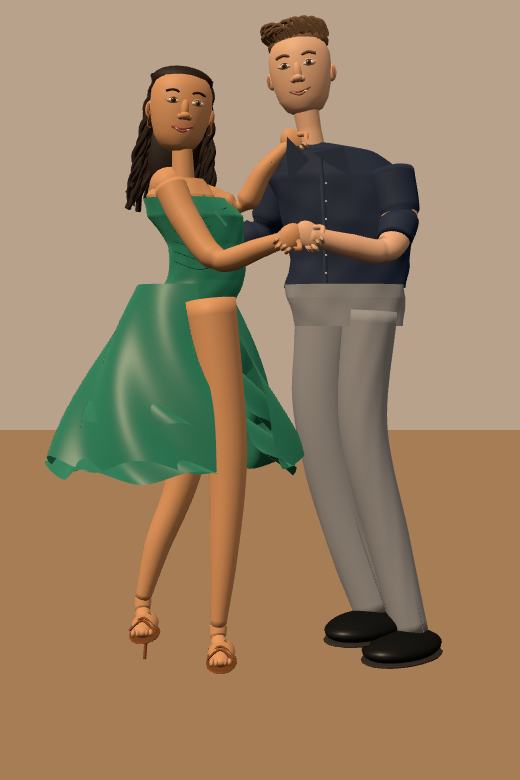
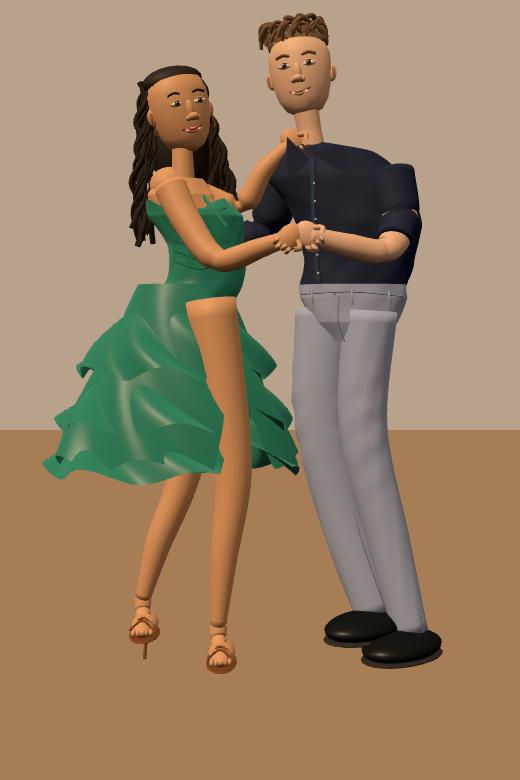
feat: crop paired reference framing and refine hair, dress and garment details

diff --git a/experiments/salsa-human-models/model.js b/experiments/salsa-human-models/model.js
@@ -1,6 +1,6 @@
 import * as THREE from '../../vendor/three.module.js';
 import {referenceCamera} from './camera.js';
-export const palette={dress:0x00624e,shirt:0x18253e,trousers:0x85858a};
+export const palette={dress:0x00624e,shirt:0x0e172f,trousers:0x9397af};
 const camera=new THREE.PerspectiveCamera(referenceCamera.fov,referenceCamera.aspect,referenceCamera.near,referenceCamera.far);
 camera.position.set(...referenceCamera.position);camera.lookAt(...referenceCamera.target);camera.updateMatrixWorld();
 // Measured reference landmarks set geometry placement, never camera or image pixels.
@@ -18,19 +18,19 @@ export function createCouple(){
  function sweep(name,knots,m,depth=1,sides=28){
   const path=new THREE.CatmullRomCurve3(knots.map(k=>vec(k[0]))),rows=(knots.length-1)*10,frames=path.computeFrenetFrames((knots.length-1)*10,false),vertices=[],indices=[];
   for(let j=0;j<=rows;j++){const t=j/rows,c=path.getPoint(t);const u=t*(knots.length-1),i=Math.min(knots.length-2,Math.floor(u)),f=u-i,requestedRadius=THREE.MathUtils.lerp(knots[i][1],knots[i+1][1],f),before=Math.max(0,t-1/rows),after=Math.min(1,t+1/rows),turn=path.getTangent(before).angleTo(path.getTangent(after)),bendLimit=turn>1e-5?.5*path.getPoint(before).distanceTo(path.getPoint(after))/turn:Infinity,r=Math.min(requestedRadius,bendLimit);
-   for(let k=0;k<=sides;k++){const a=k/sides*Math.PI*2,fold=name.includes('trouser')?1+.018*Math.cos(a*8+t*22):1;const v=frames.normals[j].clone().multiplyScalar(Math.cos(a)*r*fold).addScaledVector(frames.binormals[j],-Math.sin(a)*r*depth).add(c);vertices.push(v.x,v.y,v.z);}}
+   for(let k=0;k<=sides;k++){const a=k/sides*Math.PI*2,fold=name.includes('trouser')?1+.018*Math.cos(a*8+t*22)+.055*Math.exp(-(((t-.36)/.16)**2))*Math.cos(a*2+t*65):1;const v=frames.normals[j].clone().multiplyScalar(Math.cos(a)*r*fold).addScaledVector(frames.binormals[j],-Math.sin(a)*r*depth).add(c);vertices.push(v.x,v.y,v.z);}}
   for(let j=0;j<rows;j++)for(let k=0;k<sides;k++){const i=j*(sides+1)+k;indices.push(i,i+sides+1,i+1,i+1,i+sides+1,i+sides+2);}
   // End caps are fans, not separate spheres with coplanar joint seams.
   for(const j of [0,rows]){const c=path.getPoint(j/rows),center=vertices.length/3;vertices.push(c.x,c.y,c.z);for(let k=0;k<sides;k++){const i=j*(sides+1)+k;if(j===0)indices.push(center,i,i+1);else indices.push(center,i+1,i);}}
   const g=new THREE.BufferGeometry();g.setAttribute('position',new THREE.Float32BufferAttribute(vertices,3));g.setIndex(indices);g.computeVertexNormals();const o=mesh(name,g,m);o.userData={surface:'sweep',rows,sides};return o;
  }
  function torso(name,anchors,m){const v=[],ix=[],sides=48,rings=[];const path=new THREE.CatmullRomCurve3(anchors.map(r=>r[0]));for(let j=0;j<=60;j++){const u=j/60*(anchors.length-1),i=Math.min(anchors.length-2,Math.floor(u)),f=u-i;rings.push([path.getPoint(j/60),THREE.MathUtils.lerp(anchors[i][1],anchors[i+1][1],f),THREE.MathUtils.lerp(anchors[i][2],anchors[i+1][2],f)]);}
-  for(const [c,rx,rz] of rings)for(let i=0;i<=sides;i++){const a=i/sides*Math.PI*2;const fold=1+.012*Math.sin(a*9+c.y*38)+.009*Math.sin(a*5-c.y*51);v.push(c.x+Math.cos(a)*rx*fold,c.y,c.z+Math.sin(a)*rz*fold);}
+  for(const [row,[c,rx,rz]] of rings.entries())for(let i=0;i<=sides;i++){const a=i/sides*Math.PI*2;const fold=1+.012*Math.sin(a*9+c.y*38)+.009*Math.sin(a*5-c.y*51);const neckline=name==='Emerald fitted bodice'?.07*Math.max(0,Math.sin(a))**4*(row/60)**12:0;v.push(c.x+Math.cos(a)*rx*fold,c.y-neckline,c.z+Math.sin(a)*rz*fold);}
   for(let j=0;j<rings.length-1;j++)for(let i=0;i<sides;i++){const k=j*(sides+1)+i;ix.push(k,k+sides+1,k+1,k+1,k+sides+1,k+sides+2);}
   const g=new THREE.BufferGeometry();g.setAttribute('position',new THREE.Float32BufferAttribute(v,3));g.setIndex(ix);g.computeVertexNormals();const material=m.clone();material.side=THREE.DoubleSide;return mesh(name,g,material);
  }
  function head(name,p,skin,hairMaterial,female){
-  const g=new THREE.Group();g.name=name+' head';g.position.copy(p);g.rotation.set(0,female?.24:-.18,female?-.10:.12);root.add(g);
+  const g=new THREE.Group();g.name=name+' head';g.position.copy(p);g.rotation.set(0,female?.42:-.18,female?.22:.12);root.add(g);
   const rings=[[-.135,.025,.038],[-.117,.058,.060],[-.085,.079,.073],[-.04,.092,.083],[.01,.101,.086],[.06,.100,.084],[.105,.085,.071],[.13,.04,.04]];
   const v=[],ix=[],sides=56;
   for(const [y,rx,rz] of rings)for(let i=0;i<=sides;i++){const a=i/sides*Math.PI*2,cheek=1+.035*Math.cos(a*2);v.push(Math.cos(a)*rx*cheek,y,Math.sin(a)*rz);}
@@ -46,34 +46,34 @@ export function createCouple(){
   const lip=mat(female?0x9d4640:0xa06a59,.5);
   curve(name+' smile upper',[[-.035,-.064,.070],[0,-.07,.085],[.035,-.057,.069]],.004,lip,g);
   curve(name+' smile lower',[[-.032,-.066,.071],[0,-.079,.082],[.032,-.059,.07]],.004,lip,g);
-  oval(name+' visible teeth',[0,-.071,.080],[.025,.005,.003],mat(0xe7d8c2,.4),g);
+  oval(name+' visible teeth',[0,-.071,.080],[.029,.007,.003],mat(0xeadbc5,.4),g);
   oval(name+' scalp',[0,.104,-.017],[.103,.048,.081],hairMaterial,g);
   if(female)oval(name+' back hair volume',[0,-.10,-.07],[.107,.19,.067],hairMaterial,g);
   const count=female?70:60;
   for(let i=0;i<count;i++){const a=i*2.39996,seed=(Math.sin(i*7.13)+1)/2;
-   if(female){const side=Math.cos(a),back=Math.sin(a);if(back>.55&&Math.abs(side)<.75)continue;const points=[];for(let j=0;j<8;j++){const t=j/7;points.push([side*(.085+t*.055)+Math.sin(t*15+i)*.013,.12-t*(.38+seed*.08),-.025-Math.abs(back)*.045+Math.sin(t*13+i)*.018]);}curve(name+' wavy hair lock '+i,points,i%3===0?.010:.006,hairMaterial,g);}
-   else{const x=Math.cos(a)*.087,z=Math.sin(a)*.062;curve(name+' curled quiff '+i,[[x,.105,z-.02],[x-.025,.13+seed*.033,z+.009],[x+.004,.139+seed*.025,z+.026],[x+.017,.11+seed*.013,z+.017]],.007,maleHair,g);}}
+   if(female){const side=Math.cos(a),back=Math.sin(a);if(back>.55&&Math.abs(side)<.75)continue;const points=[];for(let j=0;j<8;j++){const t=j/7;points.push([side*(.085+t*(side<0?.15:.06))+Math.sin(t*15+i)*.019,.12-t*(.43+seed*.10),-.025-Math.abs(back)*.045+Math.sin(t*13+i)*.018]);}curve(name+' wavy hair lock '+i,points,i%3===0?.010:.006,hairMaterial,g);}
+   else{const x=Math.cos(a)*.087,z=Math.sin(a)*.062,points=[];for(let j=0;j<=8;j++){const t=j/8,angle=t*Math.PI*2*(.8+seed*.4)+i*.21;points.push([x-.025*t+.012*Math.cos(angle),.10+.055*Math.sin(Math.PI*t)+seed*.025,z-.02+.018*Math.sin(angle)+.02*t]);}curve(name+' tousled curl '+i,points,.005+seed*.004,i%5===0?mat(0x795435,.6):maleHair,g);}}
  }
  const wh=point(.347,.143),mh=point(.579,.096);head('Woman',wh,ws,hair,true);head('Man',mh,ms,maleHair,false);
  sweep('Woman neck',[[point(.353,.239),.044],[point(.350,.190),.038],[point(.347,.165),.043]],ws,.9);
  sweep('Man neck',[[point(.607,.218),.053],[point(.595,.167),.044],[point(.586,.133),.049]],ms,.9);
- torso('Fitted navy shirt',[[point(.665,.369,-.015),.205,.095],[point(.672,.334,-.02),.20,.103],[point(.669,.287,-.02),.22,.115],[point(.650,.23,-.02),.235,.11],[point(.621,.195,-.02),.17,.085],[point(.605,.185,-.015),.06,.05]],navy);
+ torso('Fitted navy shirt',[[point(.680,.369,-.015),.18,.095],[point(.690,.334,-.02),.185,.103],[point(.690,.287,-.02),.21,.115],[point(.650,.23,-.02),.235,.11],[point(.621,.195,-.02),.17,.085],[point(.605,.185,-.015),.06,.05]],navy);
  torso('Woman upper torso',[[point(.367,.282,-.01),.125,.08],[point(.349,.251,-.01),.12,.075],[point(.349,.230,-.01),.075,.055]],ws);
  torso('Emerald fitted bodice',[[point(.365,.39),.145,.09],[point(.395,.36),.13,.083],[point(.395,.315),.125,.09],[point(.376,.278),.16,.105],[point(.355,.255),.14,.09]],emerald);
  oval('Woman upper shoulder',point(.327,.239,-.01),[.07,.065,.06],ws);
  for(const [a,b,c] of [[point(.31,.223),point(.305,.25,.015),point(.333,.284,.09)],[point(.374,.235),point(.41,.269,.08),point(.435,.29,.095)]])curve('Dress shoulder strap',[a,b,c],.007,emerald);
  const shirtSeam=mat(0x28374c,.8);
- curve('Shirt front placket',[point(.616,.202,.10),point(.623,.28,.11),point(.626,.362,.092)],.008,shirtSeam);
- for(let i=0;i<6;i++)oval('Shirt button',point(.627,.235+i*.023,.116),[.004,.004,.002],mat(0xb9ad95));
+ curve('Shirt front placket',[point(.602,.202,.115),point(.604,.28,.12),point(.613,.362,.105)],.008,shirtSeam);
+ for(let i=0;i<6;i++)oval('Shirt button',point(.604+i*.0016,.235+i*.023,.13),[.004,.004,.002],mat(0xb9ad95));
  function patch(name,points,m){const shape=new THREE.Shape(points.map(p=>new THREE.Vector2(p[0],p[1])));const o=mesh(name,new THREE.ShapeGeometry(shape),m);return o;}
  for(const side of [-1,1]){const c=point(.605+side*.033,.196,.10);const collar=patch('Pointed shirt collar',[[-.055,.03],[.045,0],[.02,-.095],[-.028,-.025]],navy);collar.position.copy(c);collar.rotation.z=side*.5;}
  // Smooth anatomical leg profiles and contiguous trouser volumes.
  const legs=[
  ['Woman back',[[.335,.39,.00,.09],[.359,.59,.025,.07],[.300,.705,.04,.048],[.275,.767,.04,.029]],ws],
- ['Woman front',[[.405,.385,.10,.095],[.437,.585,.13,.075],[.430,.718,.15,.05],[.420,.802,.15,.029]],ws],
+ ['Woman front',[[.405,.385,.10,.095],[.447,.609,.13,.073],[.430,.718,.15,.05],[.420,.802,.15,.029]],ws],
  ['Man back trouser',[[.626,.397,-.035,.102],[.615,.526,-.015,.089],[.656,.66,-.01,.077],[.719,.786,.01,.065]],gray],
  ['Man front trouser',[[.711,.399,.025,.105],[.698,.546,.03,.093],[.746,.69,.04,.082],[.790,.811,.065,.067]],gray]];
- torso('Trouser pelvis',[[point(.672,.418),.18,.095],[point(.665,.382),.20,.097],[point(.664,.365),.20,.096]],gray);
+ torso('Trouser pelvis',[[point(.680,.438),.09,.07],[point(.680,.413),.15,.095],[point(.680,.382),.18,.097],[point(.680,.365),.18,.096]],gray);
  for(const [name,points,m] of legs){sweep(name,points.map(([x,y,z,r])=>[point(x,y,z),r]),m,.88);const last=points.at(-1),p=point(last[0],last[1],last[2]);
   if(name.startsWith('Man')){const shoe=oval(name+' leather derby',p.clone().add(new THREE.Vector3(-.035,-.030,.058)),[.11,.048,.18],black);shoe.rotation.y=-.65;const sole=oval(name+' layered sole',p.clone().add(new THREE.Vector3(-.035,-.062,.058)),[.113,.014,.183],mat(0x24201d));sole.rotation.y=-.65;
    for(let i=0;i<5;i++)curve(name+' lace '+i,[p.clone().add(new THREE.Vector3(-.035,-.005,.03+i*.015)),p.clone().add(new THREE.Vector3(.015,-.008,.04+i*.015))],.0025,mat(0x5a534b));
@@ -82,11 +82,17 @@ export function createCouple(){
    for(const dz of [-.035,.045,.085])curve(name+' sandal strap',[foot.clone().add(new THREE.Vector3(-.043,0,dz)),foot.clone().add(new THREE.Vector3(0,.035,dz+.012)),foot.clone().add(new THREE.Vector3(.043,0,dz+.024))],.004,bronze);
    for(let i=0;i<5;i++)oval(name+' toe '+i,foot.clone().add(new THREE.Vector3(-.027+i*.014,-.002,.118-i*.004)),[.008,.012,.019],ws);
   }}
+ const trouserThread=mat(0x747580,.85);
+ curve('Trouser waistband seam',[point(.579,.377,.085),point(.675,.374,.105),point(.778,.38,.08)],.002,trouserThread);
+ curve('Trouser fly seam',[point(.652,.38,.105),point(.650,.412,.105),point(.663,.438,.08)],.0018,trouserThread);
+ curve('Slanted trouser pocket',[point(.753,.383,.08),point(.744,.410,.09),point(.721,.428,.10)],.002,trouserThread);
+ for(const x of [.60,.677,.748])curve('Trouser belt loop',[point(x,.372,.112),point(x,.382,.115),point(x,.391,.11)],.004,gray);
+ oval('Waist fastener',point(.644,.377,.116),[.004,.004,.002],trouserThread);
  // Overlapping ruffle panels are real double-sided surfaces around the body.
  function skirt(name,top,bottom,spread,phase){const vertices=[],indices=[],rows=24,cols=96;
-  for(let j=0;j<=rows;j++)for(let i=0;i<=cols;i++){const t=j/rows,a=1.20+i/cols*(Math.PI*2-.70),wave=Math.sin(a*7+t*8+phase),r=.15+t*spread+wave*.020*t;const center=point(.351-.015*t,top+(bottom-top)*t,-.01);vertices.push(center.x+Math.cos(a)*r,center.y+.023*wave*t,center.z+Math.sin(a)*r*.68);}
+  for(let j=0;j<=rows;j++)for(let i=0;i<=cols;i++){const t=j/rows,gap=.70*THREE.MathUtils.clamp((t-.30)/.70,0,1),a=.85+gap/2+i/cols*(Math.PI*2-gap),wave=Math.sin(a*7+t*8+phase),r=.15+t*spread+wave*.020*t;const center=point(.351-.015*t,top+(bottom-top)*t,-.01);vertices.push(center.x+Math.cos(a)*r,center.y+.023*wave*t,center.z+Math.sin(a)*r*.68);}
   for(let j=0;j<rows;j++)for(let i=0;i<cols;i++){const k=j*(cols+1)+i;indices.push(k,k+cols+1,k+1,k+1,k+cols+1,k+cols+2);}const g=new THREE.BufferGeometry();g.setAttribute('position',new THREE.Float32BufferAttribute(vertices,3));g.setIndex(indices);g.computeVertexNormals();const silk=emerald.clone();silk.side=THREE.DoubleSide;mesh(name,g,silk);}
- skirt('Silk skirt body',.365,.588,.28,0);skirt('Upper cascading ruffle',.385,.477,.10,1);skirt('Middle cascading ruffle',.445,.544,.20,2);skirt('Lower cascading ruffle',.510,.601,.27,3);
+ skirt('Silk skirt body',.365,.588,.25,0);skirt('Upper cascading ruffle',.385,.477,.18,1);skirt('Middle cascading ruffle',.445,.544,.245,2);skirt('Lower cascading ruffle',.510,.601,.28,3);
  const arms=[
  ['Woman joined',[[.327,.239,.05,.061],[.359,.283,.09,.055],[.420,.333,.16,.044],[.500,.318,.23,.034],[.558,.304,.27,.025]],ws],
  ['Woman shoulder',[[.389,.253,-.03,.053],[.462,.265,-.02,.046],[.508,.219,.005,.035],[.563,.182,.015,.024]],ws],
@@ -98,5 +104,5 @@ export function createCouple(){
  for(const [name,pts,skin] of arms){sweep(name+' arm',pts.map(([x,y,z,r])=>[point(x,y,z),r]),skin,.9);hand(name,point(...pts.at(-1).slice(0,3)),skin,name==='Woman joined'?-.7:.65);
   if(name.startsWith('Man')){const portion=pts.slice(0,3).map(([x,y,z,r])=>[point(x,y,z),r+.006]);sweep(name+' rolled sleeve',portion,navy,.95);}}
  for(let i=0;i<6;i++){const y=.27+i*.013;curve('Bodice fabric gathering '+i,[point(.335,y,.073),point(.387,y+.01,.101),point(.435,y-.004,.071)],.0018,mat(0x085b49));}
- root.userData={landmarks,palette,static:true,revision:'continuous-anatomy-and-clothing-v2'};return root;
+ root.userData={landmarks,palette,static:true,revision:'reference-silhouette-and-ruffles-v3'};return root;
 }

diff --git a/experiments/salsa-human-models/index.html b/experiments/salsa-human-models/index.html
@@ -1,1 +1,1 @@
-<!doctype html><html lang="en"><head><meta charset="utf-8"><meta name="viewport" content="width=device-width,initial-scale=1"><title>Salsa — static model study</title><link rel="stylesheet" href="./viewer.css"></head><body><header><p>PROCEDURAL GEOMETRY / EXPERIMENT 02</p><h1>Emerald & Navy</h1><p>Static reconstruction study. Stylized geometry, not photographic likeness.</p><nav><button data-view="front">Reference camera</button><button data-view="side">Side</button><button data-view="rear">Rear</button><button id="download">Download GLB</button></nav></header><main><figure><img src="./reference/concept.png" alt="Approved fictional salsa couple in emerald dress and navy shirt"><figcaption>Approved concept</figcaption></figure><figure><canvas aria-label="Orbitable static 3D couple"></canvas><figcaption id="status" role="status">Loading geometry…</figcaption></figure></main><script type="module" src="./viewer.js"></script></body></html>
+<!doctype html><html lang="en"><head><meta charset="utf-8"><meta name="viewport" content="width=device-width,initial-scale=1"><title>Salsa — static model study</title><link rel="stylesheet" href="./viewer.css"></head><body><header><p>PROCEDURAL GEOMETRY / EXPERIMENT 02</p><h1>Emerald & Navy</h1><p>Static reconstruction study. Stylized geometry, not photographic likeness.</p><nav><button data-view="front">Reference camera</button><button data-view="side">Side</button><button data-view="rear">Rear</button><button id="download">Download GLB</button></nav></header><main><figure><img src="./reference/concept-cropped.png" alt="Approved fictional salsa couple in emerald dress and navy shirt"><figcaption>Approved concept · fixed subject crop</figcaption></figure><figure><canvas aria-label="Orbitable static 3D couple"></canvas><figcaption id="status" role="status">Loading geometry…</figcaption></figure></main><script type="module" src="./viewer.js"></script></body></html>

diff --git a/experiments/salsa-human-models/viewer.css b/experiments/salsa-human-models/viewer.css
@@ -1,2 +1,4 @@
 *{box-sizing:border-box}body{margin:0;background:#151c22;color:#f5eee2;font:16px system-ui}header{padding:24px 5vw}header p{color:#bbc9c3}h1{font:48px Georgia;margin:8px 0}nav{display:flex;gap:10px;flex-wrap:wrap}button{background:#224c42;color:white;border:1px solid #638377;border-radius:6px;padding:12px;cursor:pointer}button:focus-visible{outline:3px solid #e7bc76}main{display:grid;grid-template-columns:1fr 1fr;max-width:1100px;margin:auto;gap:20px;padding:20px}figure{margin:0;min-width:0}img,canvas{display:block;width:100%;aspect-ratio:2/3;object-fit:contain;background:#b8a28b}figcaption{padding:12px;color:#c9d2cc}canvas{touch-action:none}@media(max-width:650px){main{grid-template-columns:1fr}h1{font-size:38px}}
 html[data-comparison] header,html[data-comparison] figure:first-child,html[data-comparison] figcaption{display:none}html[data-comparison] main{display:block;width:1024px;max-width:none;margin:0;padding:0}html[data-comparison] canvas{width:1024px;height:1536px}
+
+figure:first-child img{aspect-ratio:13/21}

diff --git a/experiments/salsa-human-models/compare.py b/experiments/salsa-human-models/compare.py
@@ -1,4 +1,4 @@
-"""Reference similarity v1: RGB block SSIM (70%) and tolerant edge F1 (30%)."""
+"""Reference similarity v2 with fixed paired crop: RGB block SSIM (70%) and tolerant edge F1 (30%)."""
 import argparse
 import hashlib
 import json
@@ -10,6 +10,7 @@ ROOT = Path(__file__).parent
 SIZE = (256, 384)
 EXPECTED_SIZE = (1024, 1536)
 THRESHOLD = 80.0
+FRAMING = json.loads((ROOT/'reference/framing.json').read_text())
 
 
 def ssim(left, right):
@@ -45,19 +46,32 @@ def edge_f1(a, b):
     return 2*precision*recall/(precision+recall) if precision+recall else 0.0
 
 
-def similarity(reference, render):
+def similarity(reference, render, analysis_size=SIZE):
     if reference.size[0]*render.size[1] != reference.size[1]*render.size[0]:
         raise ValueError('Aspect ratios differ; image distortion is forbidden')
-    a = reference.convert('RGB').resize(SIZE, Image.Resampling.LANCZOS)
-    b = render.convert('RGB').resize(SIZE, Image.Resampling.LANCZOS)
+    a = reference.convert('RGB').resize(analysis_size, Image.Resampling.LANCZOS)
+    b = render.convert('RGB').resize(analysis_size, Image.Resampling.LANCZOS)
     if min(sum(ImageStat.Stat(i).var)/3 for i in (a, b)) < 4:
         raise ValueError('Blank or near-flat image; invalid comparison')
     regions = {}
-    for name, box in [('fullFrame', (0, 0, 256, 384)), ('leftHalf', (0, 0, 128, 384)), ('rightHalf', (128, 0, 256, 384))]:
+    width, height = analysis_size
+    for name, box in [('fullFrame', (0, 0, width, height)), ('leftHalf', (0, 0, width//2, height)), ('rightHalf', (width//2, 0, width, height))]:
         aa, bb = a.crop(box), b.crop(box)
         structure, edge = ssim(aa, bb), edge_f1(aa, bb)
         regions[name] = {'ssim': structure, 'edgeF1': edge, 'scorePercent': 100*(.7*structure+.3*edge)}
     return {'regions': regions, 'scorePercent': min(r['scorePercent'] for r in regions.values())}
+
+
+def framed_images(reference, render):
+    if reference.size != EXPECTED_SIZE or render.size != EXPECTED_SIZE:
+        raise ValueError('Both source and fixed-camera render must be 1024 x 1536')
+    left, top, right, bottom = FRAMING['cropBox']
+    width, height = FRAMING['analysisSize']
+    if not (0 <= left < right <= EXPECTED_SIZE[0] and 0 <= top < bottom <= EXPECTED_SIZE[1]):
+        raise ValueError('Invalid fixed crop bounds')
+    if width % 16 or height % 8 or (right-left)*height != (bottom-top)*width:
+        raise ValueError('Crop analysis must preserve aspect and complete SSIM blocks')
+    return reference.crop(FRAMING['cropBox']), render.crop(FRAMING['cropBox'])
 
 
 def passes_threshold(score):
@@ -71,29 +85,42 @@ def main():
     parser.add_argument('--output', type=Path, default=ROOT/'output')
     args = parser.parse_args()
     args.output.mkdir(parents=True, exist_ok=True)
-    result = {'algorithm': 'salsa-reference-v1', 'formula': 'min(fullFrame, leftHalf, rightHalf), each = 100 * (0.7 * RGB-block-SSIM + 0.3 * tolerant-edge-F1)', 'thresholdPercent': THRESHOLD, 'analysisSize': SIZE, 'edgeThreshold': 40, 'edgeTolerancePixels': 1, 'ssimWindow': [8, 8], 'note': 'Technical full-frame image score, not identity or percent likeness. Background, lighting and framing affect it.'}
+    result = {'algorithm': 'salsa-reference-v2-paired-crop', 'formula': 'min(fullFrame, leftHalf, rightHalf), each = 100 * (0.7 * RGB-block-SSIM + 0.3 * tolerant-edge-F1)', 'thresholdPercent': THRESHOLD, 'analysisSize': FRAMING['analysisSize'], 'framing': FRAMING, 'edgeThreshold': 40, 'edgeTolerancePixels': 1, 'ssimWindow': [8, 8], 'note': 'Technical full-frame image score, not identity or percent likeness. Background, lighting and framing affect it.'}
     try:
         reference, render = Image.open(args.reference).convert('RGB'), Image.open(args.render).convert('RGB')
         if reference.size != EXPECTED_SIZE or render.size != EXPECTED_SIZE:
             raise ValueError('Both source and fixed-camera render must be 1024 x 1536')
-        result.update(similarity(reference, render))
+        result['legacyFullImageV1'] = similarity(reference, render)
+        reference_crop, render_crop = framed_images(reference, render)
+        result.update(similarity(reference_crop, render_crop, tuple(FRAMING['analysisSize'])))
+        reference_crop.save(args.output/'reference-cropped.png')
+        render_crop.save(args.output/'render-cropped.png')
         result['passed'] = passes_threshold(result['scorePercent'])
+        result['croppedSha256'] = {name: hashlib.sha256((args.output/name).read_bytes()).hexdigest() for name in ['reference-cropped.png', 'render-cropped.png']}
         result['sha256'] = {name: hashlib.sha256(path.read_bytes()).hexdigest() for name, path in [('reference', args.reference), ('render', args.render)]}
+        baseline_note = ''
+        if result['sha256']['reference'] == FRAMING['sourceSha256']:
+            baseline = json.loads((ROOT/'reference/crop-baseline.json').read_text())
+            if baseline['framing'] != FRAMING:
+                raise ValueError('Crop baseline framing mismatch')
+            result['sceneViewerSha256'] = hashlib.sha256((ROOT/'viewer.js').read_bytes()).hexdigest()
+            result['cropBaseline'] = {'modelCommit': baseline['modelCommit'], 'scorePercent': baseline['scorePercent'], 'deltaPercentagePoints': result['scorePercent']-baseline['scorePercent']}
+            baseline_note = f"Same-crop previous geometry: {baseline['scorePercent']:.4f}%; geometry delta: {result['scorePercent']-baseline['scorePercent']:+.4f} percentage points.\n\n"
         capture = args.render.parent/'capture.json'
         if capture.exists():
             result['capture'] = json.loads(capture.read_text())
-        a, b = reference.resize((512, 768)), render.resize((512, 768))
+        a, b = reference_crop.resize((416, 672)), render_crop.resize((416, 672))
         difference = ImageChops.difference(a, b)
         difference.save(args.output/'difference.png')
-        panel = Image.new('RGB', (1536, 816), '#172028')
+        panel = Image.new('RGB', (1248, 720), '#172028')
         draw = ImageDraw.Draw(panel)
         for n, (label, img) in enumerate([('REFERENCE', a), ('3D RENDER / FIXED CAMERA', b), ('ABSOLUTE RGB DIFFERENCE', difference)]):
-            panel.paste(img, (512*n, 48))
-            draw.text((512*n+16, 16), label, fill='white')
+            panel.paste(img, (416*n, 48))
+            draw.text((416*n+16, 16), label, fill='white')
         draw.text((16, 32), f"Final score: {result['scorePercent']:.2f}% / required: 80% / {'PASS' if result['passed'] else 'FAIL'}", fill='white')
         panel.save(args.output/'reference-comparison.png')
         rows = ''.join(f"| {name} | {value['scorePercent']:.4f}% | {value['ssim']:.4f} | {value['edgeF1']:.4f} |\n" for name, value in result['regions'].items())
-        summary = f"## Salsa reference comparison\n\n**{result['scorePercent']:.4f}% — {'PASS' if result['passed'] else 'FAIL'}** (required: ≥80%)\n\n| Region | Score | RGB SSIM | Edge F1 |\n|---|---:|---:|---:|\n{rows}\nEach region = 100 × (0.7 × SSIM + 0.3 × edge F1). Final score is the minimum of full frame, left half and right half, to limit background/one-sided dominance.\n\nTechnical full-frame image similarity, not percent likeness. Background, lighting and framing affect the score. No automatic alignment or threshold tuning. See the artifact for the reference/render/difference panel, PNGs, hashes and camera settings.\n"
+        summary = f"## Salsa reference comparison\n\n**{result['scorePercent']:.4f}% — {'PASS' if result['passed'] else 'FAIL'}** (required: ≥80%)\n\n| Region | Score | RGB SSIM | Edge F1 |\n|---|---:|---:|---:|\n{rows}\n{baseline_note}Each region = 100 × (0.7 × SSIM + 0.3 × edge F1). Final score is the minimum of full frame, left half and right half, to limit background/one-sided dominance.\n\nFixed paired crop v2: [80,24,912,1368], preserving aspect. Not directly comparable with previous full-image scores. Previous geometry is recorded separately as the crop baseline. Full-image v1 diagnostic: {result['legacyFullImageV1']['scorePercent']:.4f}%. Technical image similarity, not percent likeness. Background, lighting and framing affect the score. No automatic alignment or threshold tuning. See the artifact for the reference/render/difference panel, PNGs, hashes and camera settings.\n"
     except (OSError, ValueError) as error:
         result.update(passed=False, error=str(error))
         summary = f'## Salsa reference comparison\n\n**ERROR / FAIL** — {error}\n'

diff --git a/tests/test_salsa_comparison.py b/tests/test_salsa_comparison.py
@@ -43,6 +43,13 @@ class ComparisonTests(unittest.TestCase):
         self.assertLess(comparison.similarity(source, shifted)['scorePercent'], 80)
         self.assertLess(comparison.similarity(source, missing)['scorePercent'], 80)
 
+    def test_missing_subject_fails_after_fixed_crop(self):
+        source = fixture().resize((1024, 1536))
+        missing = fixture()
+        ImageDraw.Draw(missing).rectangle((35, 50, 100, 340), fill='#aa9988')
+        a, b = comparison.framed_images(source, missing.resize((1024, 1536)))
+        self.assertLess(comparison.similarity(a, b, (208, 336))['scorePercent'], 80)
+
     def test_unrelated_image_fails(self):
         other = Image.new('RGB', (256, 384), 'white')
         draw = ImageDraw.Draw(other)
@@ -56,6 +63,14 @@ class ComparisonTests(unittest.TestCase):
         with self.assertRaises(ValueError):
             comparison.similarity(fixture(), fixture().resize((256, 256)))
         self.assertEqual(comparison.edge_f1(Image.new('RGB', (256, 384)), Image.new('RGB', (256, 384))), 0)
+
+    def test_fixed_crop_preserves_pixels_and_aspect(self):
+        with Image.open(ROOT/'experiments/salsa-human-models/reference/concept.png') as source, Image.open(ROOT/'experiments/salsa-human-models/reference/concept-cropped.png') as saved:
+            a, b = comparison.framed_images(source.convert('RGB'), source.convert('RGB'))
+            self.assertEqual(a.size, (832, 1344))
+            self.assertEqual(comparison.FRAMING['analysisSize'], [208, 336])
+            self.assertIsNone(ImageChops.difference(a, saved.convert('RGB')).getbbox())
+            self.assertAlmostEqual(comparison.similarity(a, b, (208, 336))['scorePercent'], 100)
 
     def test_exact_threshold_is_inclusive(self):
         self.assertFalse(comparison.passes_threshold(79.999))
@@ -76,9 +91,13 @@ class ComparisonTests(unittest.TestCase):
             self.assertFalse(metrics['passed'])
             self.assertLess(metrics['scorePercent'], 80)
             self.assertIn('sha256', metrics)
+            self.assertEqual(metrics['framing']['cropBox'], [80, 24, 912, 1368])
+            with Image.open(directory/'render-cropped.png') as cropped:
+                self.assertEqual(cropped.size, (832, 1344))
+            self.assertIn('legacyFullImageV1', metrics)
             self.assertTrue((directory/'summary.md').is_file())
             with Image.open(directory/'reference-comparison.png') as panel:
-                self.assertEqual(panel.size, (1536, 816))
+                self.assertEqual(panel.size, (1248, 720))
             self.assertTrue((directory/'difference.png').is_file())
             fixture().resize((1024, 1536)).save(render)
             result = subprocess.run(command, capture_output=True, text=True)

diff --git a/experiments/salsa-human-models/README.md b/experiments/salsa-human-models/README.md
@@ -2,7 +2,7 @@
 
 **Status: functioning stylized prototype; reference reconstruction is not complete.**
 
-The source reference is synthetic. Every visible model surface is geometry, not a photograph billboard. No animation or generated video is used. Back surfaces are inferred.
+The source reference is synthetic. The viewer now displays its fixed cropped derivative, with both complete figures and smaller background margins; the full original is preserved. Every visible model surface is geometry, not a photograph billboard. No animation or generated video is used. Back surfaces are inferred.
 
 ## Run locally
 
@@ -66,7 +66,7 @@ After the snapshot artifact is uploaded, the same workflow installs pinned Pillo
 **Algorithm v1:** compute `100 × (0.7 × RGB block SSIM + 0.3 × tolerant edge F1)` for the full frame, its left half and its right half. The **final score is the minimum** of these three scores; every region must reach 80%. Halves are fixed spatial checks, not detected person masks.
 
 - Region crops are taken after the common resize, preserving pixel shape. This conservative minimum reduces background or one-sided dominance; it still does not guarantee semantic completeness of a person.
-- Both input PNGs must be exactly 1024×1536. Analysis resizes both to 256×384 with Lanczos, without image registration, recropping or deformation.
+- Both input PNGs must be exactly 1024×1536. Version 2 applies the fixed paired subject crop documented below, then resizes both crops to208×336 with Lanczos, without independent registration, auto-cropping or deformation. Legacy v1 full-image analysis256×384 remains a separate diagnostic.
 - SSIM is averaged over RGB channels and non-overlapping 8×8 blocks; population variance/covariance, standard 8-bit constants C1=6.5025, C2=58.5225; aggregate clamped to [0,1]. This explicit block implementation differs from Gaussian sliding-window SSIM in some libraries.
 - Edge F1 uses grayscale FIND_EDGES, threshold 40/255 and a 1-pixel matching tolerance at analysis resolution. The spurious filter border is excluded. Empty edge sets earn 0. Near-flat inputs fail with an error.
 - This is a full-frame technical similarity score, **not percent likeness, identity or perceptual realism**. Background, lighting and framing contribute. The approximate camera is shared with the viewer; the source image does not provide a calibrated camera.
@@ -94,3 +94,17 @@ Geometry positions are inferred from manually measured reference image coordinat
 The revised model occupies about2.18 world units vertically versus the original prototype's roughly1.85, matching more of the source frame. The old arbitrary `<2` geometry bound was replaced by `<2.3` plus a stricter actual-vertex no-clipping test; camera parameters were not changed. Lighting, reference image, metric weights, regions and threshold are unchanged.
 
 Known limitations: stylized facial anatomy and hair, imperfect clothing joins and silhouette, inferred depth/back surfaces, and plain studio background. This iteration is not a finished realistic reconstruction. The three-view golden-render baseline and review PNGs were intentionally refreshed after visual inspection; the reference-comparison test itself is unchanged.
+
+## Fixed subject framing — comparison v2
+
+[View the cropped reference](reference/concept-cropped.png). The original `reference/concept.png` remains byte-for-byte unchanged. The derivative is an exact pixel crop832×1344, with **no generative editing or rescaling**, preserving both full figures including hair, fingertips, skirt and footwear.
+
+`reference/framing.json` freezes the crop `[80,24,912,1368]` in original1024×1536 pixels, with right/bottom exclusive. The exact same crop is applied to the full fixed-camera render. Analysis208×336 preserves this aspect ratio; half-frame regions104×336 still contain complete8×8 SSIM windows. The source crop was chosen visually before new model edits, not optimized against a score. Every actual model vertex must project inside this crop, so later geometry cannot silently lose shoes/hair at the edges.
+
+This changes the scoring frame. **Do not compare v1 scores with v2 as evidence of geometry improvement.** The previous geometry5824bee scored **33.4162% under v2**, recorded before editing in `reference/crop-baseline.json`, alongside render hash, camera and scene revision. The report includes the new v2 score, delta versus that baseline, and a separate legacy v1 diagnostic. The weights70/30, three-region minimum and threshold80% remain fixed.
+
+The comparison artifact now also includes full-resolution `reference-cropped.png` and `render-cropped.png`, in addition to the triptych, difference map, raw hashes/camera metadata and summary. The unchanged full render is still in the separate snapshot artifact. The triptych is1248×720 including its header.
+
+This geometry iteration improves cascading dress layers, neckline/slit closure, wavy hair volume and tousled curls, shirt proportions and button/placket alignment, trouser material color, waist/pocket/seam details and knee folds. These remain stylized modeled surfaces; no reference pixels are used on the models and the plain background/lighting are unchanged.
+
+Latest local results for this iteration: **v2 paired crop33.4162% →34.5677%** (+1.1515 percentage points), and the separate **v1 full-image37.5126% →38.4419%**. Both comparisons use their own consistent frame before/after. Neither meets80%, and neither is a percent-likeness claim. New materials were calibrated against fixed clothing patches in the reference, not by changing scene lighting or using reference textures.

diff --git a/.agentic/tasks/salsa-human-models/plan.md b/.agentic/tasks/salsa-human-models/plan.md
@@ -50,3 +50,13 @@ One reference cannot reveal occluded anatomy or back surfaces. These must be inf
 - Reference placement uses measured image-coordinate landmarks at inferred depths through unchanged camera. The landmark-offset report is therefore a construction diagnostic, not independent validation. Actual image-comparison algorithm/weights/regions/reference/camera/lighting remain unchanged.
 - Independent review found false-positive AABB framing check and7 locally inverted normals in tight bends. Replaced AABB check with projection of every actual world vertex; transport and bend-radius fixes are covered across every interior ring/side. Detailed-geometry check also added to Actions after snapshot publication, preserving artifact on subsequent failure.
 - Browser front/side/rear inspection, mobile layout and GLB export rerun. Review PNGs and golden coarse-render baseline deliberately refreshed for this geometry; provenance hashes updated. Source similarity gate remains fixed80 and is expected to fail until reconstruction improves further.
+
+## User-directed tighter frame and further model refinement
+- Original source preserved at hash e6b04a...3205. Added exact832×1344 pixel derivative [80,24,912,1368], no generative modifications/rescaling. Same fixed crop on source and full1024×1536 capture. Config frozen in reference/framing.json before geometry edits; comparisonv2 analysis208×336 preserves aspect/completeSSIM blocks. Existing weights/minregions/threshold unchanged; v1fullimage retained as diagnostic.
+- Recorded oldgeometry5824bee under v2:33.416190739%, renderSHA/camera/scene revision+viewerhash in reference/crop-baseline.json. Crop change is not presented as geometry improvement. Independent metric/workflow reviewers accepted fixed framing and exact-pixel derivation; geometry test now enforces every actual vertex lies inside croppedframe.
+- Refined modeled hair volume/curls/headtilt, outward overlapping skirt tiers, closed upper slit and shaped neckline, shirt fit/front details, waistband/pocket/fly/beltloops/kneefolds and clothing material colors. No source textures, camera or lighting modifications.
+- Initial detail candidate worsened fixedcrop to32.6953%; retained no false improvement claim. Further garment corrections yielded v2:34.7556% (+1.3394pp) and independent unchanged v1:38.5817% vs37.5126 prior. Threshold80 still fails as expected. Crop and render PNGs added to report artifact, fullsnapshot remains separately downloadable.
+
+- Final geometry review found a disconnected skin triangle used for the open-shirt chest (R-006). Removed that detail rather than retain a front-view-only surface; shirt opening remains a reconstruction limitation.
+
+- After removing R-006, final local scores: v2 cropped34.5677% vs33.4162 (+1.1515pp); unchanged v1 full38.4419% vs37.5126 (+0.9293pp). Final source crop and geometry tests pass; these remain below80. Earlier34.7556/38.5817 values described the pre-review candidate only.
